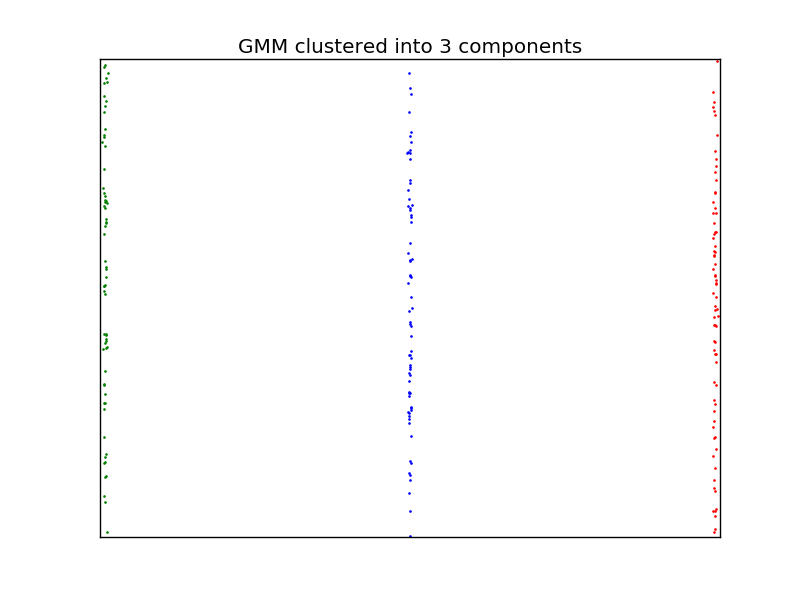
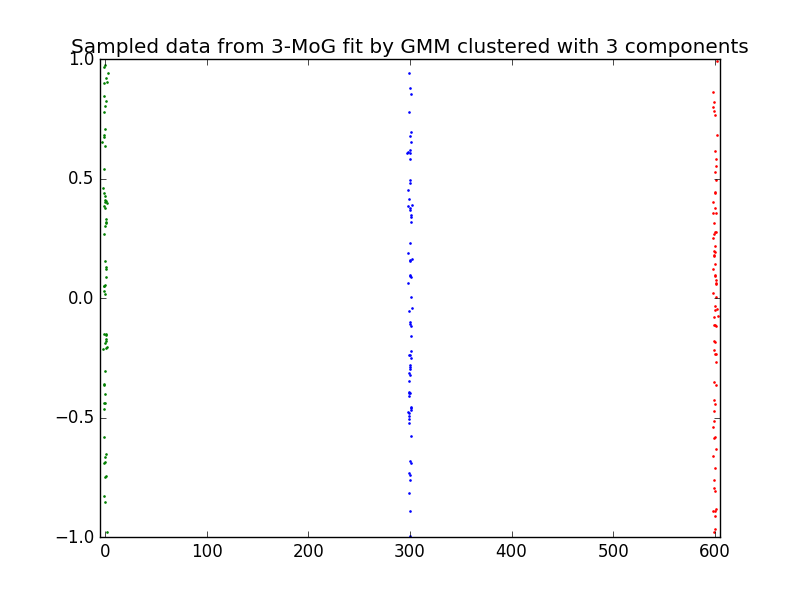
better labels on how we correctly cluster

diff --git a/code/gmm_fit_example2.py b/code/gmm_fit_example2.py
@@ -23,7 +23,7 @@ gmm.fit(X)
 
 color_iter = itertools.cycle(['r', 'g', 'b', 'c', 'm'])
 
-for i, (clf, title) in enumerate([(gmm, 'GMM clustered into 3 components')]):
+for i, (clf, title) in enumerate([(gmm, 'Sampled data from 3-MoG fit by GMM clustered with 3 components')]):
     splot = plt.plot()
     Y_ = clf.predict(X)
     for i, (mean, covar, color) in enumerate(zip(
@@ -45,8 +45,6 @@ for i, (clf, title) in enumerate([(gmm, 'GMM clustered into 3 components')]):
 
     plt.xlim(-5, 605)
     plt.ylim(-1, 1)
-    plt.xticks(())
-    plt.yticks(())
     plt.title(title)
 
 plt.show()
